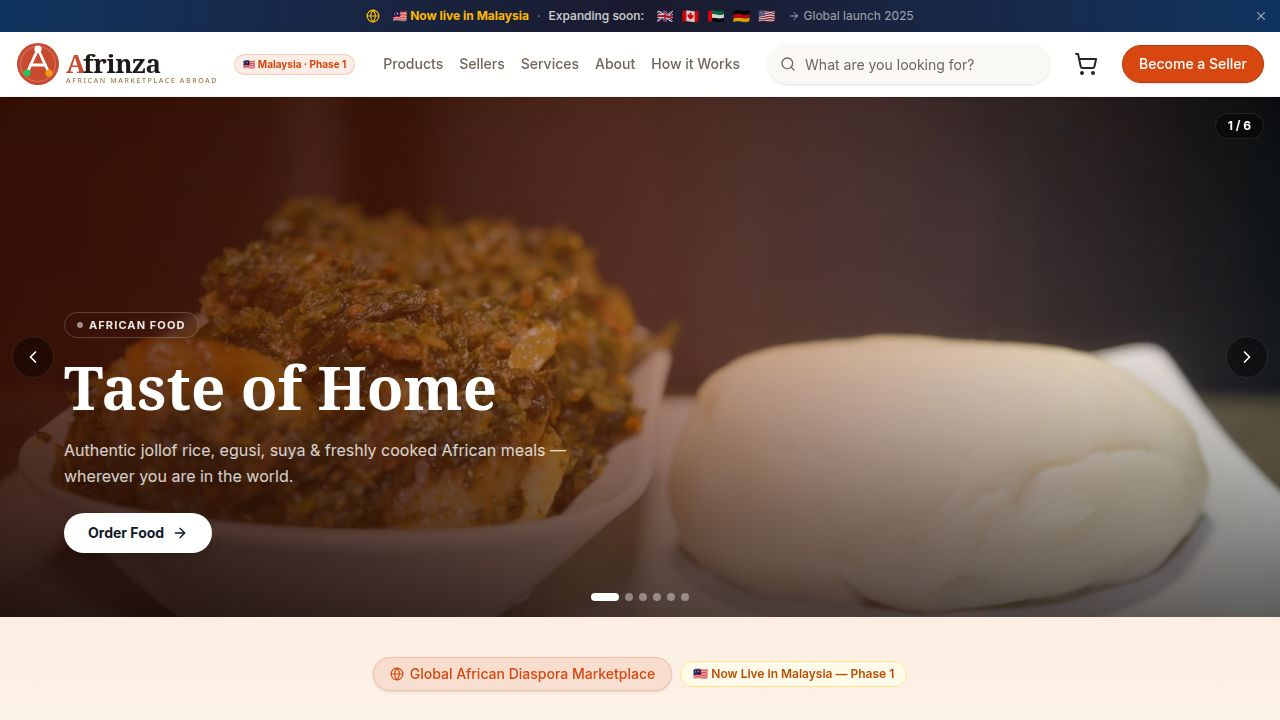
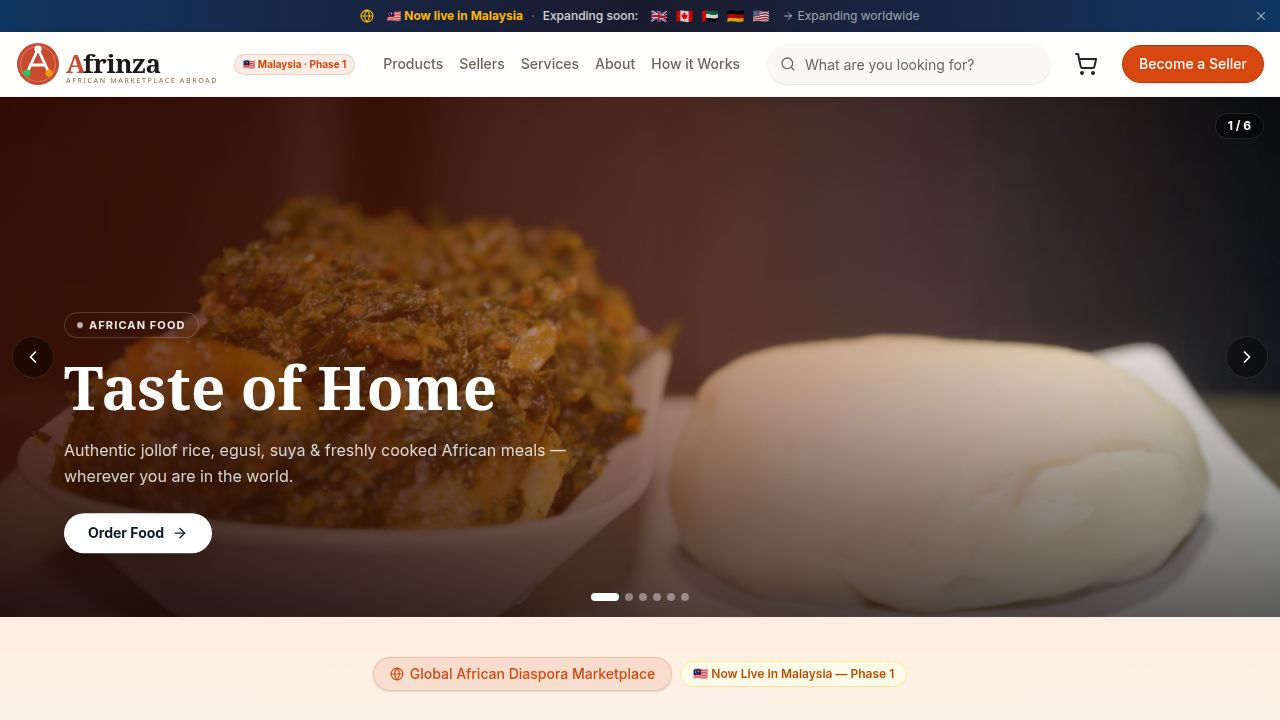
Make frontend build compatible with Vercel deployments
Remove PORT and BASE_PATH environment variable requirements from Vite config, update build script and output directory for seamless Vercel integration.

Replit-Commit-Author: Agent
Replit-Commit-Session-Id: bf2d194e-23b2-4337-88fe-f520fd4f96a5
Replit-Commit-Checkpoint-Type: full_checkpoint
Replit-Commit-Event-Id: fdda6a3e-c5e2-4297-a150-1ebf73a6ded4
Replit-Commit-Screenshot-Url: https://storage.googleapis.com/screenshot-production-us-central1/b194b530-3ce5-4cce-bccf-070384e64328/bf2d194e-23b2-4337-88fe-f520fd4f96a5/CqPwqL4
Replit-Helium-Checkpoint-Created: true

diff --git a/artifacts/afrinza/vite.config.ts b/artifacts/afrinza/vite.config.ts
@@ -2,44 +2,39 @@ import { defineConfig } from "vite";
 import react from "@vitejs/plugin-react";
 import tailwindcss from "@tailwindcss/vite";
 import path from "path";
-import runtimeErrorOverlay from "@replit/vite-plugin-runtime-error-modal";
 import { VitePWA } from "vite-plugin-pwa";
 
-const rawPort = process.env.PORT;
+// PORT and BASE_PATH are optional — provided by Replit at runtime,
+// not needed during a Vercel (or any CI) build.
+const port = process.env.PORT ? Number(process.env.PORT) : 3000;
+const basePath = process.env.BASE_PATH ?? "/";
 
-if (!rawPort) {
-  throw new Error(
-    "PORT environment variable is required but was not provided.",
-  );
-}
-
-const port = Number(rawPort);
-
-if (Number.isNaN(port) || port <= 0) {
-  throw new Error(`Invalid PORT value: "${rawPort}"`);
-}
-
-const basePath = process.env.BASE_PATH;
-
-if (!basePath) {
-  throw new Error(
-    "BASE_PATH environment variable is required but was not provided.",
-  );
-}
+// Replit-only dev plugins — skipped entirely outside Replit
+const replitPlugins =
+  process.env.NODE_ENV !== "production" && process.env.REPL_ID !== undefined
+    ? await Promise.all([
+        import("@replit/vite-plugin-runtime-error-modal").then((m) => m.default()),
+        import("@replit/vite-plugin-cartographer").then((m) =>
+          m.cartographer({ root: path.resolve(import.meta.dirname, "..") }),
+        ),
+        import("@replit/vite-plugin-dev-banner").then((m) => m.devBanner()),
+      ])
+    : [];
 
 export default defineConfig({
   base: basePath,
+
   plugins: [
     react(),
     tailwindcss(),
-    runtimeErrorOverlay(),
     VitePWA({
       registerType: "autoUpdate",
       includeAssets: ["favicon.svg", "apple-touch-icon.svg", "pwa-192.svg", "pwa-512.svg"],
       manifest: {
         name: "Afrinza — African Marketplace Abroad",
         short_name: "Afrinza",
-        description: "The global African diaspora marketplace. Find African food, fashion, beauty and trusted services — wherever you are in the world.",
+        description:
+          "The global African diaspora marketplace. Find African food, fashion, beauty and trusted services — wherever you are in the world.",
         theme_color: "#C84B31",
         background_color: "#ffffff",
         display: "standalone",
@@ -63,7 +58,9 @@ export default defineConfig({
         ],
       },
       workbox: {
-        globPatterns: ["**/*.{js,css,html,svg,png,jpg,webp,woff2}"],
+        // Precache only app-shell assets; large images are handled by runtime caching below
+        globPatterns: ["**/*.{js,css,html,svg,woff2}"],
+        maximumFileSizeToCacheInBytes: 3 * 1024 * 1024,
         runtimeCaching: [
           {
             urlPattern: /^https:\/\/images\.unsplash\.com\/.*/i,
@@ -97,36 +94,28 @@ export default defineConfig({
           },
         ],
       },
-      devOptions: {
-        enabled: false,
-      },
+      devOptions: { enabled: false },
     }),
-    ...(process.env.NODE_ENV !== "production" &&
-    process.env.REPL_ID !== undefined
-      ? [
-          await import("@replit/vite-plugin-cartographer").then((m) =>
-            m.cartographer({
-              root: path.resolve(import.meta.dirname, ".."),
-            }),
-          ),
-          await import("@replit/vite-plugin-dev-banner").then((m) =>
-            m.devBanner(),
-          ),
-        ]
-      : []),
+    ...replitPlugins,
   ],
+
   resolve: {
     alias: {
       "@": path.resolve(import.meta.dirname, "src"),
+      // @assets maps to attached_assets in Replit; falls back gracefully elsewhere
       "@assets": path.resolve(import.meta.dirname, "..", "..", "attached_assets"),
     },
     dedupe: ["react", "react-dom"],
   },
+
   root: path.resolve(import.meta.dirname),
+
   build: {
-    outDir: path.resolve(import.meta.dirname, "dist/public"),
+    // Vercel expects output in "dist" at the project root
+    outDir: path.resolve(import.meta.dirname, "dist"),
     emptyOutDir: true,
   },
+
   server: {
     port,
     host: "0.0.0.0",
@@ -136,6 +125,7 @@ export default defineConfig({
       deny: ["**/.*"],
     },
   },
+
   preview: {
     port,
     host: "0.0.0.0",